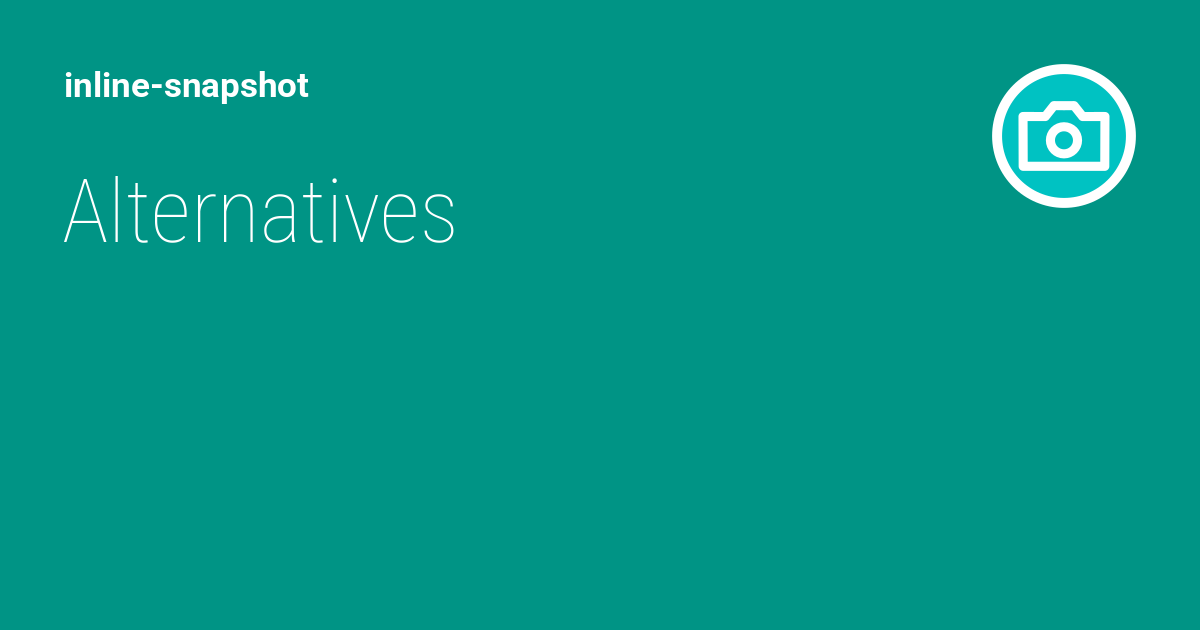
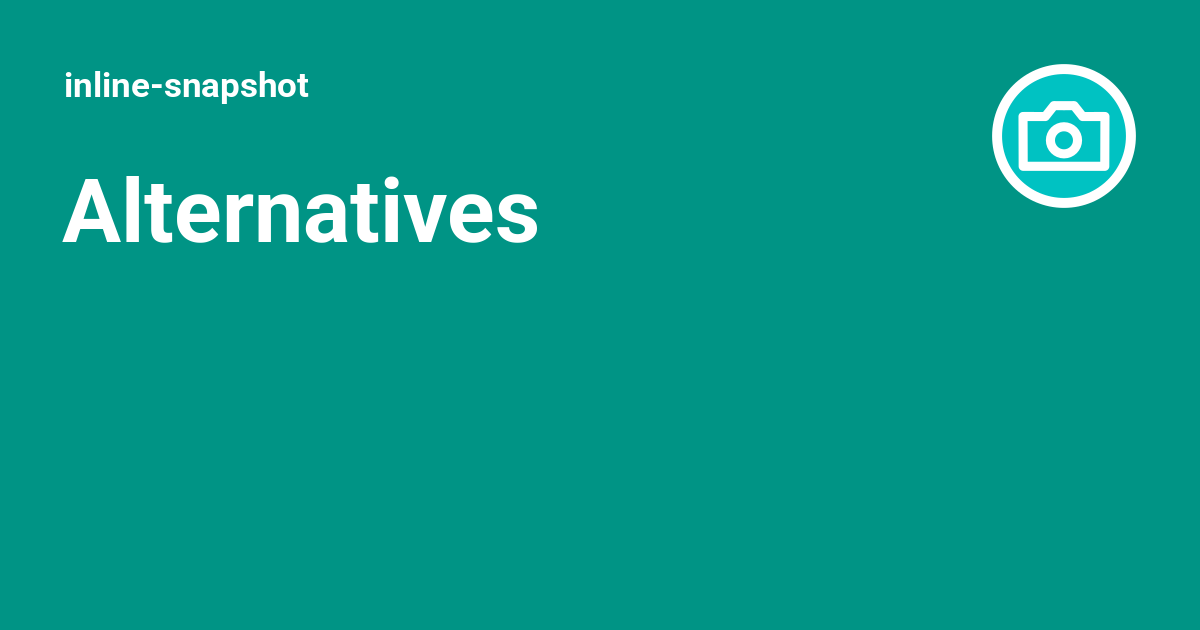
Deployed daf1a1f to development with ProperDocs 1.6.7 and mike 2.2.0

Changed region(s): [[0.0308, 0.2714, 0.4625, 0.3921]]

diff --git a/development/pytest/index.html b/development/pytest/index.html
@@ -2000,8 +2000,8 @@ These flags can be combined with <em>report</em> and <em>review</em>.</p>
 <div class="highlight"><pre><span></span><code><a id="__codelineno-0-1" name="__codelineno-0-1" href="#__codelineno-0-1"></a><span class=" -Color -Color-Bold -Color-Bold-Blue">&gt; pytest test_something.py --inline-snapshot=create,report</span>
 <a id="__codelineno-0-2" name="__codelineno-0-2" href="#__codelineno-0-2"></a><span class=" -Color -Color-Bold">============================= test session starts ==============================</span>
 <a id="__codelineno-0-3" name="__codelineno-0-3" href="#__codelineno-0-3"></a>platform linux -- Python 3.12.3, pytest-9.0.3, pluggy-1.6.0
-<a id="__codelineno-0-4" name="__codelineno-0-4" href="#__codelineno-0-4"></a>rootdir: /tmp/tmp.P4yQVnMEJ2
-<a id="__codelineno-0-5" name="__codelineno-0-5" href="#__codelineno-0-5"></a>plugins: inline-snapshot-0.33.0
+<a id="__codelineno-0-4" name="__codelineno-0-4" href="#__codelineno-0-4"></a>rootdir: /tmp/tmp.aa9Aq2jh71
+<a id="__codelineno-0-5" name="__codelineno-0-5" href="#__codelineno-0-5"></a>plugins: inline-snapshot-0.34.0
 <a id="__codelineno-0-6" name="__codelineno-0-6" href="#__codelineno-0-6"></a>collected 1 item
 <a id="__codelineno-0-7" name="__codelineno-0-7" href="#__codelineno-0-7"></a>
 <a id="__codelineno-0-8" name="__codelineno-0-8" href="#__codelineno-0-8"></a>test_something.py <span class=" -Color -Color-Green">.</span><span class=" -Color -Color-Red">E                                                     [100%]</span>
@@ -2018,7 +2018,7 @@ These flags can be combined with <em>report</em> and <em>review</em>.</p>
 <a id="__codelineno-0-19" name="__codelineno-0-19" href="#__codelineno-0-19"></a>│ <span class=" -Color -Color-Green">+    assert 1 == snapshot(1)</span>                                                 │
 <a id="__codelineno-0-20" name="__codelineno-0-20" href="#__codelineno-0-20"></a>│ <span class=" -Color -Color-White"> </span>    assert 2 &lt;= snapshot(5)                                                 │
 <a id="__codelineno-0-21" name="__codelineno-0-21" href="#__codelineno-0-21"></a>╰──────────────────────────────────────────────────────────────────────────────╯
-<a id="__codelineno-0-22" name="__codelineno-0-22" href="#__codelineno-0-22"></a>These changes will be applied, because you used ]8;id=12403657;https://15r10nk.github.io/inline-snapshot/latest/categories/#create\<span class=" -Color -Color-Blue">create</span>]8;;\
+<a id="__codelineno-0-22" name="__codelineno-0-22" href="#__codelineno-0-22"></a>These changes will be applied, because you used ]8;id=12777774;https://15r10nk.github.io/inline-snapshot/latest/categories/#create\<span class=" -Color -Color-Blue">create</span>]8;;\
 <a id="__codelineno-0-23" name="__codelineno-0-23" href="#__codelineno-0-23"></a>
 <a id="__codelineno-0-24" name="__codelineno-0-24" href="#__codelineno-0-24"></a><span class=" -Color -Color-BrightGreen">──────────────────────────────── </span><span class=" -Color -Color-Bold -Color-Bold-Yellow">Trim snapshots</span><span class=" -Color -Color-BrightGreen"> ────────────────────────────────</span>
 <a id="__codelineno-0-25" name="__codelineno-0-25" href="#__codelineno-0-25"></a>╭───────────────────────────── test_something.py ──────────────────────────────╮
@@ -2031,8 +2031,8 @@ These flags can be combined with <em>report</em> and <em>review</em>.</p>
 <a id="__codelineno-0-32" name="__codelineno-0-32" href="#__codelineno-0-32"></a>│ <span class=" -Color -Color-Green">+    assert 2 &lt;= snapshot(2)</span>                                                 │
 <a id="__codelineno-0-33" name="__codelineno-0-33" href="#__codelineno-0-33"></a>╰──────────────────────────────────────────────────────────────────────────────╯
 <a id="__codelineno-0-34" name="__codelineno-0-34" href="#__codelineno-0-34"></a>These changes are not applied.
-<a id="__codelineno-0-35" name="__codelineno-0-35" href="#__codelineno-0-35"></a>Use <span class=" -Color -Color-Bold">--inline-snapshot=</span>]8;id=12403662;https://15r10nk.github.io/inline-snapshot/latest/categories/#trim\<span class=" -Color -Color-Bold -Color-Bold-Blue">trim</span>]8;;\<span class=" -Color -Color-Bold"> to apply them, or use the interactive mode with </span>
-<a id="__codelineno-0-36" name="__codelineno-0-36" href="#__codelineno-0-36"></a><span class=" -Color -Color-Bold">--inline-snapshot=</span>]8;id=12403663;https://15r10nk.github.io/inline-snapshot/latest/pytest/#-inline-snapshotreview\<span class=" -Color -Color-Bold -Color-Bold-Blue">review</span>]8;;\
+<a id="__codelineno-0-35" name="__codelineno-0-35" href="#__codelineno-0-35"></a>Use <span class=" -Color -Color-Bold">--inline-snapshot=</span>]8;id=12777779;https://15r10nk.github.io/inline-snapshot/latest/categories/#trim\<span class=" -Color -Color-Bold -Color-Bold-Blue">trim</span>]8;;\<span class=" -Color -Color-Bold"> to apply them, or use the interactive mode with </span>
+<a id="__codelineno-0-36" name="__codelineno-0-36" href="#__codelineno-0-36"></a><span class=" -Color -Color-Bold">--inline-snapshot=</span>]8;id=12777780;https://15r10nk.github.io/inline-snapshot/latest/pytest/#-inline-snapshotreview\<span class=" -Color -Color-Bold -Color-Bold-Blue">review</span>]8;;\
 <a id="__codelineno-0-37" name="__codelineno-0-37" href="#__codelineno-0-37"></a>
 <a id="__codelineno-0-38" name="__codelineno-0-38" href="#__codelineno-0-38"></a>
 <a id="__codelineno-0-39" name="__codelineno-0-39" href="#__codelineno-0-39"></a>
@@ -2042,15 +2042,15 @@ These flags can be combined with <em>report</em> and <em>review</em>.</p>
 <a id="__codelineno-0-43" name="__codelineno-0-43" href="#__codelineno-0-43"></a>If you just created this value with --inline-snapshot=create, the value is now created and you can ignore this message.
 <a id="__codelineno-0-44" name="__codelineno-0-44" href="#__codelineno-0-44"></a><span class=" -Color -Color-Bold -Color-Bold-Cyan">=========================== short test summary info ============================</span>
 <a id="__codelineno-0-45" name="__codelineno-0-45" href="#__codelineno-0-45"></a><span class=" -Color -Color-Red">ERROR</span> test_something.py::<span class=" -Color -Color-Bold">test_something</span> - Failed: your snapshot is missing one value.
-<a id="__codelineno-0-46" name="__codelineno-0-46" href="#__codelineno-0-46"></a><span class=" -Color -Color-Red">========================== </span><span class=" -Color -Color-Green">1 passed</span>, <span class=" -Color -Color-Bold -Color-Bold-Red">1 error</span><span class=" -Color -Color-Red"> in 0.12s ==========================</span>
+<a id="__codelineno-0-46" name="__codelineno-0-46" href="#__codelineno-0-46"></a><span class=" -Color -Color-Red">========================== </span><span class=" -Color -Color-Green">1 passed</span>, <span class=" -Color -Color-Bold -Color-Bold-Red">1 error</span><span class=" -Color -Color-Red"> in 0.11s ==========================</span>
 </code></pre></div>
 <h2 id="-inline-snapshotshort-report">--inline-snapshot=short-report<a class="headerlink" href="#-inline-snapshotshort-report" title="Permanent link">&para;</a></h2>
 <p>give a short report over which changes can be made to the snapshots</p>
 <div class="highlight"><pre><span></span><code><a id="__codelineno-0-1" name="__codelineno-0-1" href="#__codelineno-0-1"></a><span class=" -Color -Color-Bold -Color-Bold-Blue">&gt; pytest test_something.py --inline-snapshot=short-report</span>
 <a id="__codelineno-0-2" name="__codelineno-0-2" href="#__codelineno-0-2"></a><span class=" -Color -Color-Bold">============================= test session starts ==============================</span>
 <a id="__codelineno-0-3" name="__codelineno-0-3" href="#__codelineno-0-3"></a>platform linux -- Python 3.12.3, pytest-9.0.3, pluggy-1.6.0
-<a id="__codelineno-0-4" name="__codelineno-0-4" href="#__codelineno-0-4"></a>rootdir: /tmp/tmp.GCtYrGObJR
-<a id="__codelineno-0-5" name="__codelineno-0-5" href="#__codelineno-0-5"></a>plugins: inline-snapshot-0.33.0
+<a id="__codelineno-0-4" name="__codelineno-0-4" href="#__codelineno-0-4"></a>rootdir: /tmp/tmp.ZpbuqeAdOx
+<a id="__codelineno-0-5" name="__codelineno-0-5" href="#__codelineno-0-5"></a>plugins: inline-snapshot-0.34.0
 <a id="__codelineno-0-6" name="__codelineno-0-6" href="#__codelineno-0-6"></a>collected 1 item
 <a id="__codelineno-0-7" name="__codelineno-0-7" href="#__codelineno-0-7"></a>
 <a id="__codelineno-0-8" name="__codelineno-0-8" href="#__codelineno-0-8"></a>test_something.py <span class=" -Color -Color-Green">.</span><span class=" -Color -Color-Red">E                                                     [100%]</span>
@@ -2080,8 +2080,8 @@ This option will be replaced with <em>report</em> when this restriction is lifte
 <div class="highlight"><pre><span></span><code><a id="__codelineno-0-1" name="__codelineno-0-1" href="#__codelineno-0-1"></a><span class=" -Color -Color-Bold -Color-Bold-Blue">&gt; pytest test_something.py --inline-snapshot=report</span>
 <a id="__codelineno-0-2" name="__codelineno-0-2" href="#__codelineno-0-2"></a><span class=" -Color -Color-Bold">============================= test session starts ==============================</span>
 <a id="__codelineno-0-3" name="__codelineno-0-3" href="#__codelineno-0-3"></a>platform linux -- Python 3.12.3, pytest-9.0.3, pluggy-1.6.0
-<a id="__codelineno-0-4" name="__codelineno-0-4" href="#__codelineno-0-4"></a>rootdir: /tmp/tmp.1vHdCpei6r
-<a id="__codelineno-0-5" name="__codelineno-0-5" href="#__codelineno-0-5"></a>plugins: inline-snapshot-0.33.0
+<a id="__codelineno-0-4" name="__codelineno-0-4" href="#__codelineno-0-4"></a>rootdir: /tmp/tmp.8bXoPH8PAv
+<a id="__codelineno-0-5" name="__codelineno-0-5" href="#__codelineno-0-5"></a>plugins: inline-snapshot-0.34.0
 <a id="__codelineno-0-6" name="__codelineno-0-6" href="#__codelineno-0-6"></a>collected 1 item
 <a id="__codelineno-0-7" name="__codelineno-0-7" href="#__codelineno-0-7"></a>
 <a id="__codelineno-0-8" name="__codelineno-0-8" href="#__codelineno-0-8"></a>test_something.py <span class=" -Color -Color-Green">.</span><span class=" -Color -Color-Red">E                                                     [100%]</span>
@@ -2099,8 +2099,8 @@ This option will be replaced with <em>report</em> when this restriction is lifte
 <a id="__codelineno-0-20" name="__codelineno-0-20" href="#__codelineno-0-20"></a>│ <span class=" -Color -Color-White"> </span>    assert 2 &lt;= snapshot(5)                                                 │
 <a id="__codelineno-0-21" name="__codelineno-0-21" href="#__codelineno-0-21"></a>╰──────────────────────────────────────────────────────────────────────────────╯
 <a id="__codelineno-0-22" name="__codelineno-0-22" href="#__codelineno-0-22"></a>These changes are not applied.
-<a id="__codelineno-0-23" name="__codelineno-0-23" href="#__codelineno-0-23"></a>Use <span class=" -Color -Color-Bold">--inline-snapshot=</span>]8;id=12942713;https://15r10nk.github.io/inline-snapshot/latest/categories/#create\<span class=" -Color -Color-Bold -Color-Bold-Blue">create</span>]8;;\<span class=" -Color -Color-Bold"> to apply them, or use the interactive mode with </span>
-<a id="__codelineno-0-24" name="__codelineno-0-24" href="#__codelineno-0-24"></a><span class=" -Color -Color-Bold">--inline-snapshot=</span>]8;id=12942714;https://15r10nk.github.io/inline-snapshot/latest/pytest/#-inline-snapshotreview\<span class=" -Color -Color-Bold -Color-Bold-Blue">review</span>]8;;\
+<a id="__codelineno-0-23" name="__codelineno-0-23" href="#__codelineno-0-23"></a>Use <span class=" -Color -Color-Bold">--inline-snapshot=</span>]8;id=2849609;https://15r10nk.github.io/inline-snapshot/latest/categories/#create\<span class=" -Color -Color-Bold -Color-Bold-Blue">create</span>]8;;\<span class=" -Color -Color-Bold"> to apply them, or use the interactive mode with </span>
+<a id="__codelineno-0-24" name="__codelineno-0-24" href="#__codelineno-0-24"></a><span class=" -Color -Color-Bold">--inline-snapshot=</span>]8;id=2849610;https://15r10nk.github.io/inline-snapshot/latest/pytest/#-inline-snapshotreview\<span class=" -Color -Color-Bold -Color-Bold-Blue">review</span>]8;;\
 <a id="__codelineno-0-25" name="__codelineno-0-25" href="#__codelineno-0-25"></a>
 <a id="__codelineno-0-26" name="__codelineno-0-26" href="#__codelineno-0-26"></a><span class=" -Color -Color-BrightGreen">──────────────────────────────── </span><span class=" -Color -Color-Bold -Color-Bold-Yellow">Trim snapshots</span><span class=" -Color -Color-BrightGreen"> ────────────────────────────────</span>
 <a id="__codelineno-0-27" name="__codelineno-0-27" href="#__codelineno-0-27"></a>╭───────────────────────────── test_something.py ──────────────────────────────╮
@@ -2113,8 +2113,8 @@ This option will be replaced with <em>report</em> when this restriction is lifte
 <a id="__codelineno-0-34" name="__codelineno-0-34" href="#__codelineno-0-34"></a>│ <span class=" -Color -Color-Green">+    assert 2 &lt;= snapshot(2)</span>                                                 │
 <a id="__codelineno-0-35" name="__codelineno-0-35" href="#__codelineno-0-35"></a>╰──────────────────────────────────────────────────────────────────────────────╯
 <a id="__codelineno-0-36" name="__codelineno-0-36" href="#__codelineno-0-36"></a>These changes are not applied.
-<a id="__codelineno-0-37" name="__codelineno-0-37" href="#__codelineno-0-37"></a>Use <span class=" -Color -Color-Bold">--inline-snapshot=</span>]8;id=12942718;https://15r10nk.github.io/inline-snapshot/latest/categories/#trim\<span class=" -Color -Color-Bold -Color-Bold-Blue">trim</span>]8;;\<span class=" -Color -Color-Bold"> to apply them, or use the interactive mode with </span>
-<a id="__codelineno-0-38" name="__codelineno-0-38" href="#__codelineno-0-38"></a><span class=" -Color -Color-Bold">--inline-snapshot=</span>]8;id=12942719;https://15r10nk.github.io/inline-snapshot/latest/pytest/#-inline-snapshotreview\<span class=" -Color -Color-Bold -Color-Bold-Blue">review</span>]8;;\
+<a id="__codelineno-0-37" name="__codelineno-0-37" href="#__codelineno-0-37"></a>Use <span class=" -Color -Color-Bold">--inline-snapshot=</span>]8;id=2849614;https://15r10nk.github.io/inline-snapshot/latest/categories/#trim\<span class=" -Color -Color-Bold -Color-Bold-Blue">trim</span>]8;;\<span class=" -Color -Color-Bold"> to apply them, or use the interactive mode with </span>
+<a id="__codelineno-0-38" name="__codelineno-0-38" href="#__codelineno-0-38"></a><span class=" -Color -Color-Bold">--inline-snapshot=</span>]8;id=2849615;https://15r10nk.github.io/inline-snapshot/latest/pytest/#-inline-snapshotreview\<span class=" -Color -Color-Bold -Color-Bold-Blue">review</span>]8;;\
 <a id="__codelineno-0-39" name="__codelineno-0-39" href="#__codelineno-0-39"></a>
 <a id="__codelineno-0-40" name="__codelineno-0-40" href="#__codelineno-0-40"></a>
 <a id="__codelineno-0-41" name="__codelineno-0-41" href="#__codelineno-0-41"></a>
@@ -2124,15 +2124,15 @@ This option will be replaced with <em>report</em> when this restriction is lifte
 <a id="__codelineno-0-45" name="__codelineno-0-45" href="#__codelineno-0-45"></a>If you just created this value with --inline-snapshot=create, the value is now created and you can ignore this message.
 <a id="__codelineno-0-46" name="__codelineno-0-46" href="#__codelineno-0-46"></a><span class=" -Color -Color-Bold -Color-Bold-Cyan">=========================== short test summary info ============================</span>
 <a id="__codelineno-0-47" name="__codelineno-0-47" href="#__codelineno-0-47"></a><span class=" -Color -Color-Red">ERROR</span> test_something.py::<span class=" -Color -Color-Bold">test_something</span> - Failed: your snapshot is missing one value.
-<a id="__codelineno-0-48" name="__codelineno-0-48" href="#__codelineno-0-48"></a><span class=" -Color -Color-Red">========================== </span><span class=" -Color -Color-Green">1 passed</span>, <span class=" -Color -Color-Bold -Color-Bold-Red">1 error</span><span class=" -Color -Color-Red"> in 0.09s ==========================</span>
+<a id="__codelineno-0-48" name="__codelineno-0-48" href="#__codelineno-0-48"></a><span class=" -Color -Color-Red">========================== </span><span class=" -Color -Color-Green">1 passed</span>, <span class=" -Color -Color-Bold -Color-Bold-Red">1 error</span><span class=" -Color -Color-Red"> in 0.08s ==========================</span>
 </code></pre></div>
 <h2 id="-inline-snapshotreview">--inline-snapshot=review<a class="headerlink" href="#-inline-snapshotreview" title="Permanent link">&para;</a></h2>
 <p>Shows a diff report for each category and ask if you want to apply the changes</p>
 <div class="highlight"><pre><span></span><code><a id="__codelineno-0-1" name="__codelineno-0-1" href="#__codelineno-0-1"></a><span class=" -Color -Color-Bold -Color-Bold-Blue">&gt; pytest test_something.py --inline-snapshot=review</span>
 <a id="__codelineno-0-2" name="__codelineno-0-2" href="#__codelineno-0-2"></a><span class=" -Color -Color-Bold">============================= test session starts ==============================</span>
 <a id="__codelineno-0-3" name="__codelineno-0-3" href="#__codelineno-0-3"></a>platform linux -- Python 3.12.3, pytest-9.0.3, pluggy-1.6.0
-<a id="__codelineno-0-4" name="__codelineno-0-4" href="#__codelineno-0-4"></a>rootdir: /tmp/tmp.dC216WPCWT
-<a id="__codelineno-0-5" name="__codelineno-0-5" href="#__codelineno-0-5"></a>plugins: inline-snapshot-0.33.0
+<a id="__codelineno-0-4" name="__codelineno-0-4" href="#__codelineno-0-4"></a>rootdir: /tmp/tmp.W3HzoroJoq
+<a id="__codelineno-0-5" name="__codelineno-0-5" href="#__codelineno-0-5"></a>plugins: inline-snapshot-0.34.0
 <a id="__codelineno-0-6" name="__codelineno-0-6" href="#__codelineno-0-6"></a>collected 1 item
 <a id="__codelineno-0-7" name="__codelineno-0-7" href="#__codelineno-0-7"></a>
 <a id="__codelineno-0-8" name="__codelineno-0-8" href="#__codelineno-0-8"></a>test_something.py <span class=" -Color -Color-Green">.</span><span class=" -Color -Color-Red">E                                                     [100%]</span>
@@ -2149,7 +2149,7 @@ This option will be replaced with <em>report</em> when this restriction is lifte
 <a id="__codelineno-0-19" name="__codelineno-0-19" href="#__codelineno-0-19"></a>│ <span class=" -Color -Color-Green">+    assert 1 == snapshot(1)</span>                                                 │
 <a id="__codelineno-0-20" name="__codelineno-0-20" href="#__codelineno-0-20"></a>│ <span class=" -Color -Color-White"> </span>    assert 2 &lt;= snapshot(5)                                                 │
 <a id="__codelineno-0-21" name="__codelineno-0-21" href="#__codelineno-0-21"></a>╰──────────────────────────────────────────────────────────────────────────────╯
-<a id="__codelineno-0-22" name="__codelineno-0-22" href="#__codelineno-0-22"></a>Do you want to ]8;id=7789243;https://15r10nk.github.io/inline-snapshot/latest/categories/#create\<span class=" -Color -Color-Blue">create</span>]8;;\ these snapshots? <span class=" -Color -Color-Bold -Color-Bold-Magenta">[y/n]</span> <span class=" -Color -Color-Bold -Color-Bold-Cyan">(n)</span>: 
+<a id="__codelineno-0-22" name="__codelineno-0-22" href="#__codelineno-0-22"></a>Do you want to ]8;id=6908764;https://15r10nk.github.io/inline-snapshot/latest/categories/#create\<span class=" -Color -Color-Blue">create</span>]8;;\ these snapshots? <span class=" -Color -Color-Bold -Color-Bold-Magenta">[y/n]</span> <span class=" -Color -Color-Bold -Color-Bold-Cyan">(n)</span>: 
 <a id="__codelineno-0-23" name="__codelineno-0-23" href="#__codelineno-0-23"></a><span class=" -Color -Color-BrightGreen">──────────────────────────────── </span><span class=" -Color -Color-Bold -Color-Bold-Yellow">Trim snapshots</span><span class=" -Color -Color-BrightGreen"> ────────────────────────────────</span>
 <a id="__codelineno-0-24" name="__codelineno-0-24" href="#__codelineno-0-24"></a>╭───────────────────────────── test_something.py ──────────────────────────────╮
 <a id="__codelineno-0-25" name="__codelineno-0-25" href="#__codelineno-0-25"></a>│ <span class=" -Color -Color-Bold -Color-Bold-Magenta">@@ -3,4 +3,4 @@</span>                                                              │
@@ -2160,7 +2160,7 @@ This option will be replaced with <em>report</em> when this restriction is lifte
 <a id="__codelineno-0-30" name="__codelineno-0-30" href="#__codelineno-0-30"></a>│ <span class=" -Color -Color-BrightRed">-    assert 2 &lt;= snapshot(5)</span>                                                 │
 <a id="__codelineno-0-31" name="__codelineno-0-31" href="#__codelineno-0-31"></a>│ <span class=" -Color -Color-Green">+    assert 2 &lt;= snapshot(2)</span>                                                 │
 <a id="__codelineno-0-32" name="__codelineno-0-32" href="#__codelineno-0-32"></a>╰──────────────────────────────────────────────────────────────────────────────╯
-<a id="__codelineno-0-33" name="__codelineno-0-33" href="#__codelineno-0-33"></a>Do you want to ]8;id=7789246;https://15r10nk.github.io/inline-snapshot/latest/categories/#trim\<span class=" -Color -Color-Blue">trim</span>]8;;\ these snapshots? <span class=" -Color -Color-Bold -Color-Bold-Magenta">[y/n]</span> <span class=" -Color -Color-Bold -Color-Bold-Cyan">(n)</span>: 
+<a id="__codelineno-0-33" name="__codelineno-0-33" href="#__codelineno-0-33"></a>Do you want to ]8;id=6908767;https://15r10nk.github.io/inline-snapshot/latest/categories/#trim\<span class=" -Color -Color-Blue">trim</span>]8;;\ these snapshots? <span class=" -Color -Color-Bold -Color-Bold-Magenta">[y/n]</span> <span class=" -Color -Color-Bold -Color-Bold-Cyan">(n)</span>: 
 <a id="__codelineno-0-34" name="__codelineno-0-34" href="#__codelineno-0-34"></a>
 <a id="__codelineno-0-35" name="__codelineno-0-35" href="#__codelineno-0-35"></a>
 <a id="__codelineno-0-36" name="__codelineno-0-36" href="#__codelineno-0-36"></a>==================================== ERRORS ====================================

diff --git a/development/changelog/index.html b/development/changelog/index.html
@@ -95,7 +95,7 @@
     <div data-md-component="skip">
       
         
-        <a href="#exec-1--upcoming-version-no-tag-matching-configuration-could-be-found" class="md-skip">
+        <a href="#exec-1--0340-2026-05-29" class="md-skip">
           Skip to content
         </a>
       
@@ -909,15 +909,15 @@
     <ul class="md-nav__list" data-md-component="toc" data-md-scrollfix>
       
         <li class="md-nav__item">
-  <a href="#exec-1--upcoming-version-no-tag-matching-configuration-could-be-found" class="md-nav__link">
+  <a href="#exec-1--0340-2026-05-29" class="md-nav__link">
     <span class="md-ellipsis">
       
-        upcoming version (No tag matching configuration could be found.
+        0.34.0 — 2026-05-29
       
     </span>
   </a>
   
-    <nav class="md-nav" aria-label="upcoming version (No tag matching configuration could be found.">
+    <nav class="md-nav" aria-label="0.34.0 — 2026-05-29">
       <ul class="md-nav__list">
         
           <li class="md-nav__item">
@@ -4931,15 +4931,15 @@
     <ul class="md-nav__list" data-md-component="toc" data-md-scrollfix>
       
         <li class="md-nav__item">
-  <a href="#exec-1--upcoming-version-no-tag-matching-configuration-could-be-found" class="md-nav__link">
+  <a href="#exec-1--0340-2026-05-29" class="md-nav__link">
     <span class="md-ellipsis">
       
-        upcoming version (No tag matching configuration could be found.
+        0.34.0 — 2026-05-29
       
     </span>
   </a>
   
-    <nav class="md-nav" aria-label="upcoming version (No tag matching configuration could be found.">
+    <nav class="md-nav" aria-label="0.34.0 — 2026-05-29">
       <ul class="md-nav__list">
         
           <li class="md-nav__item">
@@ -8047,13 +8047,8 @@
 
   <h1>Changelog</h1>
 
-<p><h2 id="exec-1--upcoming-version-no-tag-matching-configuration-could-be-found">upcoming version (No tag matching configuration could be found.<a class="headerlink" href="#exec-1--upcoming-version-no-tag-matching-configuration-could-be-found" title="Permanent link">&para;</a></h2>
-<p>Possible causes:
-- version in configuration is not the current version
-- tag_format or legacy_tag_formats is missing, check them using 'git tag --list'</p>
-<p>? Is this the first tag created? (Y/n)</p>
-<div class="highlight"><pre><span></span><code>                                    ? Is this the first tag created? (Y/n))
-</code></pre></div>
+<p><p><a id='changelog-0.34.0'></a></p>
+<h2 id="exec-1--0340-2026-05-29">0.34.0 — 2026-05-29<a class="headerlink" href="#exec-1--0340-2026-05-29" title="Permanent link">&para;</a></h2>
 <h3 id="exec-1--added">Added<a class="headerlink" href="#exec-1--added" title="Permanent link">&para;</a></h3>
 <ul>
 <li><code>get_snapshot_value()</code> now accepts a <code>which</code> parameter (<code>"new"</code> or <code>"old"</code>) to select whether to return the new (just-compared) or the old (previously stored) snapshot value (<a href="https://github.com/15r10nk/inline-snapshot/issues/336">#336</a>).</li>

diff --git a/development/get_snapshot_value/index.html b/development/get_snapshot_value/index.html
@@ -1869,9 +1869,11 @@ of a previously stored snapshot. For standard test assertions, prefer using the 
             </td>
             <td>
               <div class="doc-md-description">
-                <p>can be:
-- <code>"old"</code>: the value which is "visible" in the source is returned
-- <code>"new"</code>: the current value is returned</p>
+                <p>can be:</p>
+<ul>
+<li><code>"old"</code>: the value which is "visible" in the source is returned</li>
+<li><code>"new"</code>: the current value is returned</li>
+</ul>
               </div>
             </td>
             <td>

diff --git a/development/pytest/index.md b/development/pytest/index.md
@@ -34,8 +34,8 @@ def test_something():
 > pytest test_something.py --inline-snapshot=create,report
 ============================= test session starts ==============================
 platform linux -- Python 3.12.3, pytest-9.0.3, pluggy-1.6.0
-rootdir: /tmp/tmp.P4yQVnMEJ2
-plugins: inline-snapshot-0.33.0
+rootdir: /tmp/tmp.aa9Aq2jh71
+plugins: inline-snapshot-0.34.0
 collected 1 item
 
 test_something.py .E                                                     [100%]
@@ -52,7 +52,7 @@ test_something.py .E                                                     [100%]
 │ +    assert 1 == snapshot(1)                                                 │
 │      assert 2 <= snapshot(5)                                                 │
 ╰──────────────────────────────────────────────────────────────────────────────╯
-These changes will be applied, because you used ]8;id=12403657;https://15r10nk.github.io/inline-snapshot/latest/categories/#create\create]8;;\
+These changes will be applied, because you used ]8;id=12777774;https://15r10nk.github.io/inline-snapshot/latest/categories/#create\create]8;;\
 
 ──────────────────────────────── Trim snapshots ────────────────────────────────
 ╭───────────────────────────── test_something.py ──────────────────────────────╮
@@ -65,8 +65,8 @@ These changes will be applied, because you used ]8;id=12403657;https://15r10nk.g
 │ +    assert 2 <= snapshot(2)                                                 │
 ╰──────────────────────────────────────────────────────────────────────────────╯
 These changes are not applied.
-Use --inline-snapshot=]8;id=12403662;https://15r10nk.github.io/inline-snapshot/latest/categories/#trim\trim]8;;\ to apply them, or use the interactive mode with 
---inline-snapshot=]8;id=12403663;https://15r10nk.github.io/inline-snapshot/latest/pytest/#-inline-snapshotreview\review]8;;\
+Use --inline-snapshot=]8;id=12777779;https://15r10nk.github.io/inline-snapshot/latest/categories/#trim\trim]8;;\ to apply them, or use the interactive mode with 
+--inline-snapshot=]8;id=12777780;https://15r10nk.github.io/inline-snapshot/latest/pytest/#-inline-snapshotreview\review]8;;\
 
 
 
@@ -76,7 +76,7 @@ your snapshot is missing one value.
 If you just created this value with --inline-snapshot=create, the value is now created and you can ignore this message.
 =========================== short test summary info ============================
 ERROR test_something.py::test_something - Failed: your snapshot is missing one value.
-========================== 1 passed, 1 error in 0.12s ==========================
+========================== 1 passed, 1 error in 0.11s ==========================
 ```
 
 ## --inline-snapshot=short-report
@@ -87,8 +87,8 @@ give a short report over which changes can be made to the snapshots
 > pytest test_something.py --inline-snapshot=short-report
 ============================= test session starts ==============================
 platform linux -- Python 3.12.3, pytest-9.0.3, pluggy-1.6.0
-rootdir: /tmp/tmp.GCtYrGObJR
-plugins: inline-snapshot-0.33.0
+rootdir: /tmp/tmp.ZpbuqeAdOx
+plugins: inline-snapshot-0.34.0
 collected 1 item
 
 test_something.py .E                                                     [100%]
@@ -121,8 +121,8 @@ Shows a diff report over which changes can be made to the snapshots
 > pytest test_something.py --inline-snapshot=report
 ============================= test session starts ==============================
 platform linux -- Python 3.12.3, pytest-9.0.3, pluggy-1.6.0
-rootdir: /tmp/tmp.1vHdCpei6r
-plugins: inline-snapshot-0.33.0
+rootdir: /tmp/tmp.8bXoPH8PAv
+plugins: inline-snapshot-0.34.0
 collected 1 item
 
 test_something.py .E                                                     [100%]
@@ -140,8 +140,8 @@ test_something.py .E                                                     [100%]
 │      assert 2 <= snapshot(5)                                                 │
 ╰──────────────────────────────────────────────────────────────────────────────╯
 These changes are not applied.
-Use --inline-snapshot=]8;id=12942713;https://15r10nk.github.io/inline-snapshot/latest/categories/#create\create]8;;\ to apply them, or use the interactive mode with 
---inline-snapshot=]8;id=12942714;https://15r10nk.github.io/inline-snapshot/latest/pytest/#-inline-snapshotreview\review]8;;\
+Use --inline-snapshot=]8;id=2849609;https://15r10nk.github.io/inline-snapshot/latest/categories/#create\create]8;;\ to apply them, or use the interactive mode with 
+--inline-snapshot=]8;id=2849610;https://15r10nk.github.io/inline-snapshot/latest/pytest/#-inline-snapshotreview\review]8;;\
 
 ──────────────────────────────── Trim snapshots ────────────────────────────────
 ╭───────────────────────────── test_something.py ──────────────────────────────╮
@@ -154,8 +154,8 @@ Use --inline-snapshot=]8;id=12942713;https://15r10nk.github.io/inline-snapshot/l
 │ +    assert 2 <= snapshot(2)                                                 │
 ╰──────────────────────────────────────────────────────────────────────────────╯
 These changes are not applied.
-Use --inline-snapshot=]8;id=12942718;https://15r10nk.github.io/inline-snapshot/latest/categories/#trim\trim]8;;\ to apply them, or use the interactive mode with 
---inline-snapshot=]8;id=12942719;https://15r10nk.github.io/inline-snapshot/latest/pytest/#-inline-snapshotreview\review]8;;\
+Use --inline-snapshot=]8;id=2849614;https://15r10nk.github.io/inline-snapshot/latest/categories/#trim\trim]8;;\ to apply them, or use the interactive mode with 
+--inline-snapshot=]8;id=2849615;https://15r10nk.github.io/inline-snapshot/latest/pytest/#-inline-snapshotreview\review]8;;\
 
 
 
@@ -165,7 +165,7 @@ your snapshot is missing one value.
 If you just created this value with --inline-snapshot=create, the value is now created and you can ignore this message.
 =========================== short test summary info ============================
 ERROR test_something.py::test_something - Failed: your snapshot is missing one value.
-========================== 1 passed, 1 error in 0.09s ==========================
+========================== 1 passed, 1 error in 0.08s ==========================
 ```
 
 ## --inline-snapshot=review
@@ -176,8 +176,8 @@ Shows a diff report for each category and ask if you want to apply the changes
 > pytest test_something.py --inline-snapshot=review
 ============================= test session starts ==============================
 platform linux -- Python 3.12.3, pytest-9.0.3, pluggy-1.6.0
-rootdir: /tmp/tmp.dC216WPCWT
-plugins: inline-snapshot-0.33.0
+rootdir: /tmp/tmp.W3HzoroJoq
+plugins: inline-snapshot-0.34.0
 collected 1 item
 
 test_something.py .E                                                     [100%]
@@ -194,7 +194,7 @@ test_something.py .E                                                     [100%]
 │ +    assert 1 == snapshot(1)                                                 │
 │      assert 2 <= snapshot(5)                                                 │
 ╰──────────────────────────────────────────────────────────────────────────────╯
-Do you want to ]8;id=7789243;https://15r10nk.github.io/inline-snapshot/latest/categories/#create\create]8;;\ these snapshots? [y/n] (n): 
+Do you want to ]8;id=6908764;https://15r10nk.github.io/inline-snapshot/latest/categories/#create\create]8;;\ these snapshots? [y/n] (n): 
 ──────────────────────────────── Trim snapshots ────────────────────────────────
 ╭───────────────────────────── test_something.py ──────────────────────────────╮
 │ @@ -3,4 +3,4 @@                                                              │
@@ -205,7 +205,7 @@ Do you want to ]8;id=7789243;https://15r10nk.github.io/inline-snapshot/latest/ca
 │ -    assert 2 <= snapshot(5)                                                 │
 │ +    assert 2 <= snapshot(2)                                                 │
 ╰──────────────────────────────────────────────────────────────────────────────╯
-Do you want to ]8;id=7789246;https://15r10nk.github.io/inline-snapshot/latest/categories/#trim\trim]8;;\ these snapshots? [y/n] (n): 
+Do you want to ]8;id=6908767;https://15r10nk.github.io/inline-snapshot/latest/categories/#trim\trim]8;;\ these snapshots? [y/n] (n): 
 
 
 ==================================== ERRORS ====================================